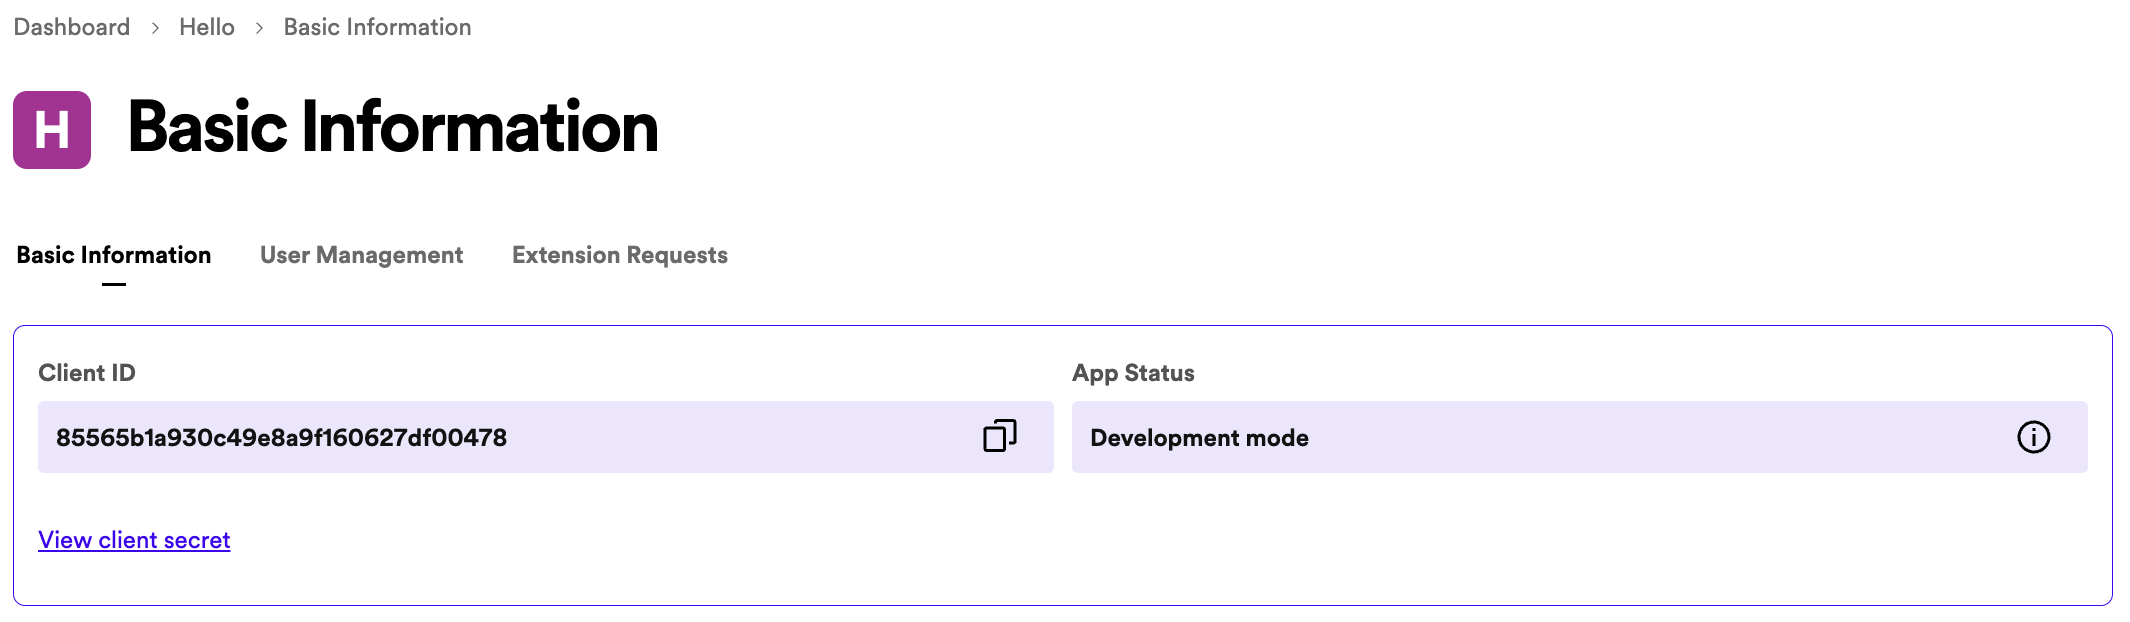
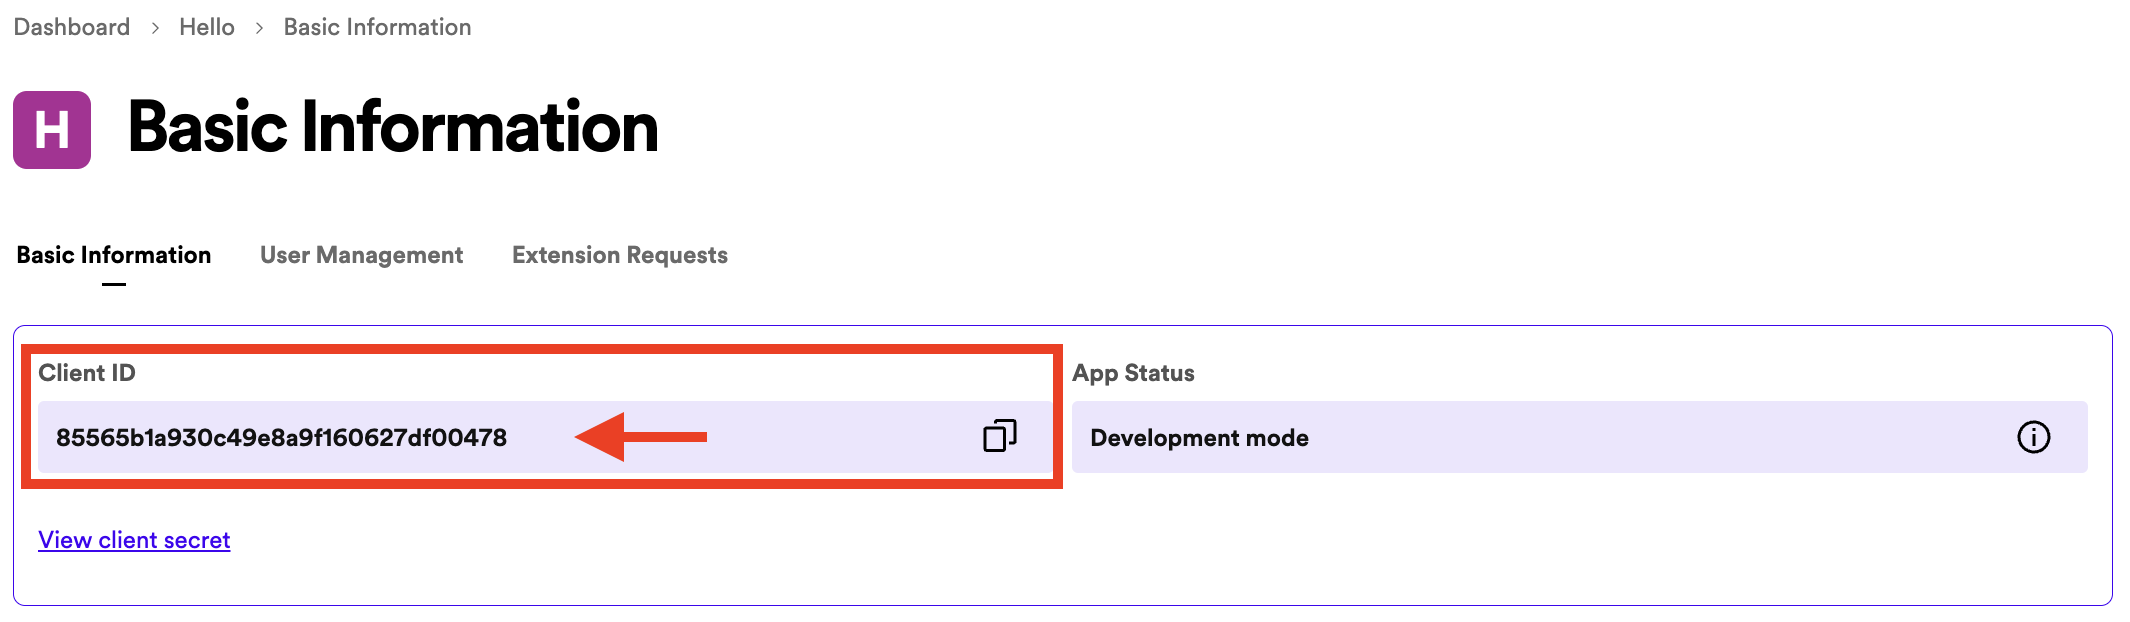
add FAQ and highlight some pictures

Changed region(s): [[0.0, 0.5498, 0.4958, 0.7942], [0.4958, 0.5804, 0.5268, 0.7637], [0.2789, 0.672, 0.3408, 0.7331]]

diff --git a/README.md b/README.md
@@ -188,6 +188,41 @@ Use the section **[How to make a request for User Profile?](https://github.com/t
 
 <img src="./img/webapi.png" width=800 />
 
+## FAQ:
+
+<details>
+
+<summary>Where do I find the Song's ID and Album's ID?</summary>
+
+Head to [Spotify Web Player](https://open.spotify.com/), open a song you would like to obtain the id. Examine the URL from the address bar:
+
+#### Song/Track:
+
+```text
+https://open.spotify.com/track/36OyVzUmUFb1MTTzy3YXbh
+```
+
+-   `36OyVzUmUFb1MTTzy3YXbh` is the song's ID
+
+#### Album:
+
+```url
+https://open.spotify.com/album/2nLOHgzXzwFEpl62zAgCEC
+```
+
+-   `2nLOHgzXzwFEpl62zAgCEC` is the album's ID
+</details>
+
 ## Troubleshooting Tips:
 
+### Redirect URI Mismatch
+
 -   If you encounter a "Redirect URI Mismatch" error, make sure that the redirect URI specified in your Spotify Developer Dashboard matches the one in your AndroidManifest.xml file.
+
+### 429 Error Response
+
+-   Spotify's Web API implements rate limits to ensure the reliability of its services and to promote responsible usage among third-party developers. The rate limit is calculated based on the number of API calls made by an application within a rolling 30-second window.
+
+-   When an application surpasses Spotify's rate limit, it receives a 429 error response from the Web API. This indicates that the application has reached its rate limit and needs to throttle its requests.
+
+-   For more details about rate limits and strategies to overcome the error, please review [Spotify Rate Limit](https://developer.spotify.com/documentation/web-api/concepts/rate-limits)
